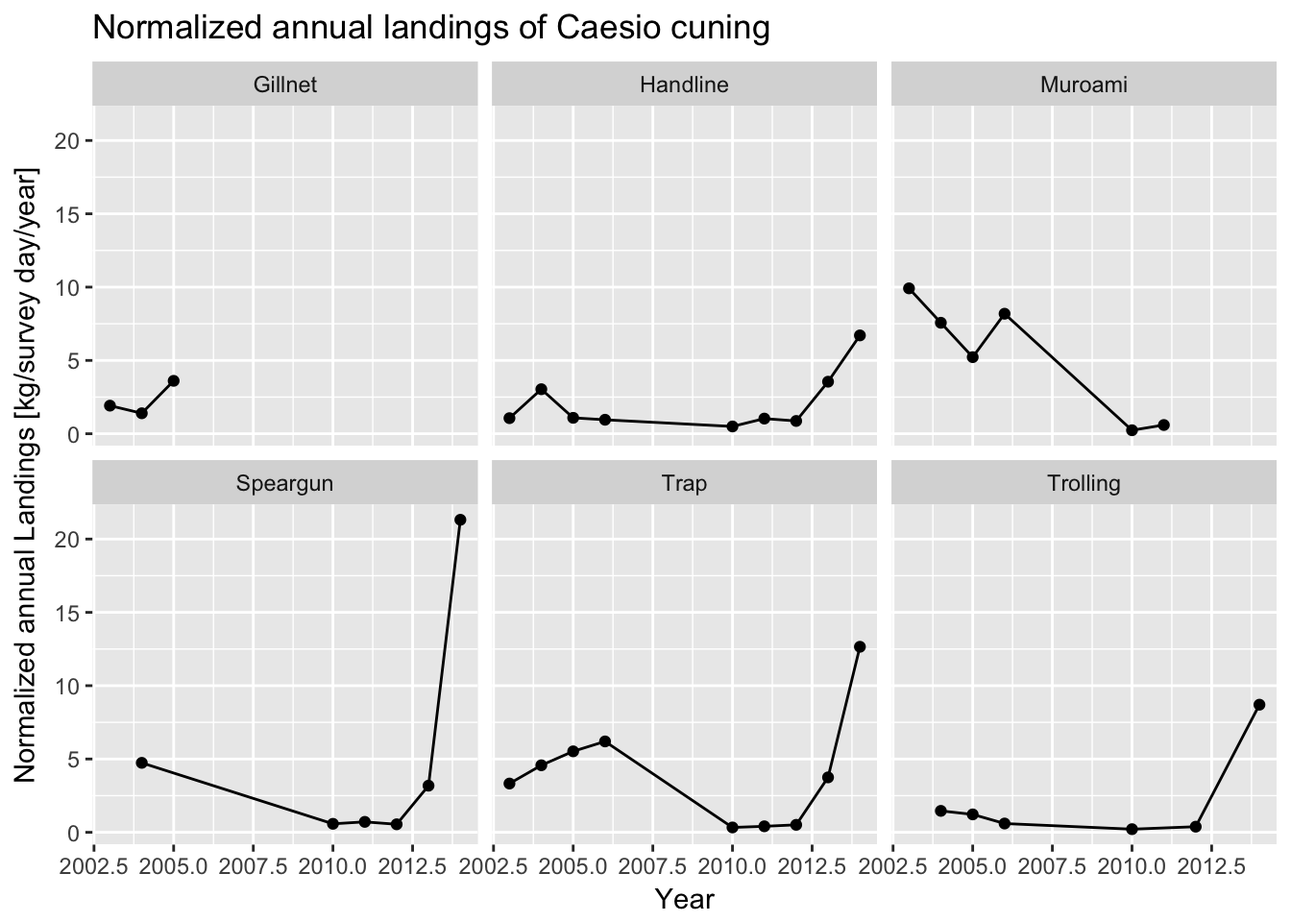
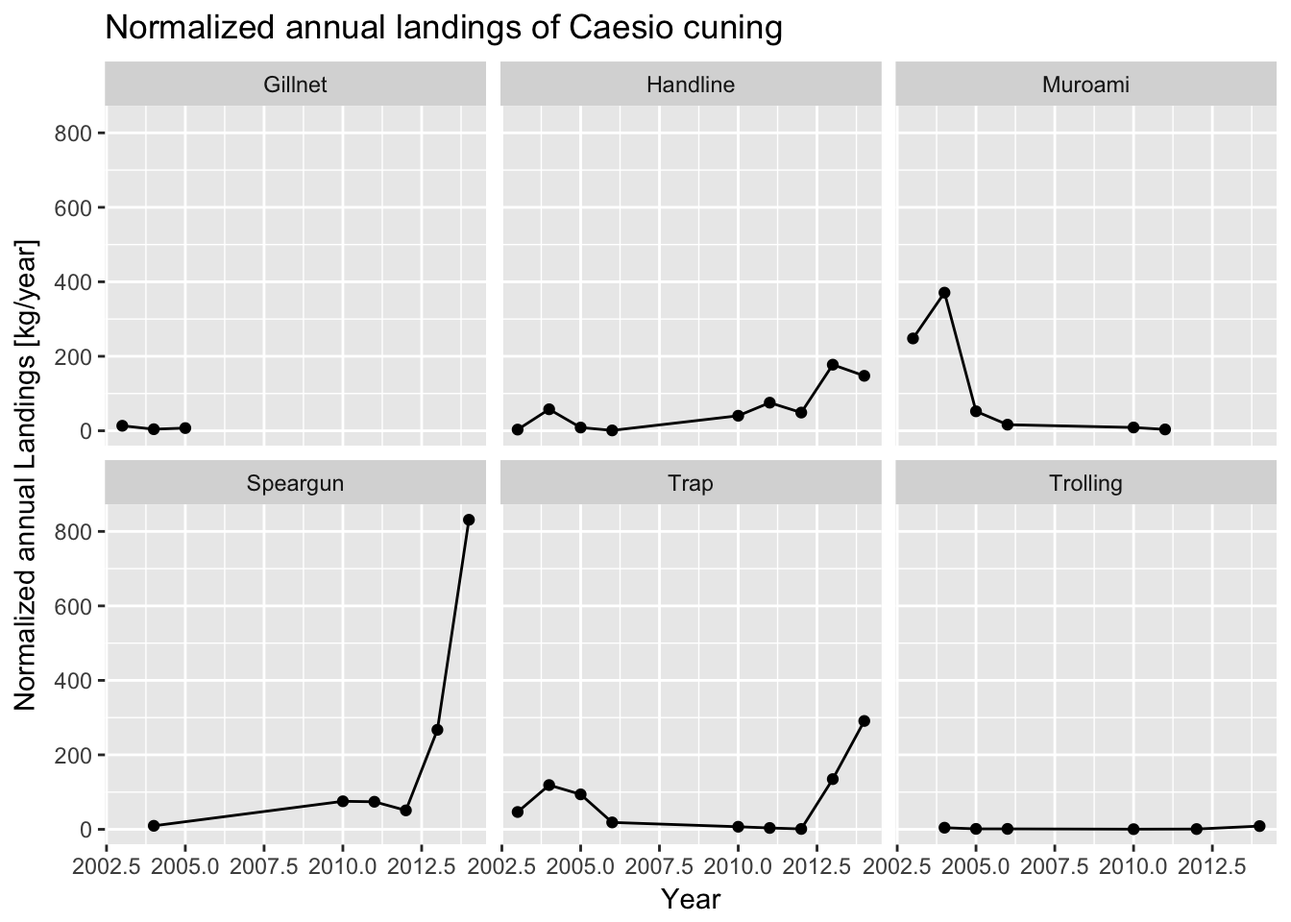
updates

diff --git a/docs/basic-fisheries-statistics.html b/docs/basic-fisheries-statistics.html
@@ -154,68 +154,73 @@ code > span.in { color: #60a0b0; font-weight: bold; font-style: italic; } /* Inf
             <section class="normal" id="section-">
 <div id="basic-fisheries-statistics" class="section level1">
 <h1><span class="header-section-number">6</span> Basic Fisheries Statistics</h1>
-<p>This short document will walk you through how to calculate some basic fisheries statistics This is a very quick introduction, but a great resource for learning more is a free book called <a href="http://r4ds.had.co.nz/">R for Data Science</a>. Additionally, you can always use R’s built in help functionality by using a question mark followed by a function name. For example, typing <code>?ggplot</code> into the console will bring up a help document on ggplot.</p>
 <div id="calculating-landings" class="section level2">
 <h2><span class="header-section-number">6.1</span> Calculating landings</h2>
-<p>One of the first analyses you may be interested in is calculating annual landings in the fishery. To do this in R, you start by taking the landings data and working through a series of “pipes”, which progressively analyze the data from one step to the next and are shown with the <code>%&gt;%</code> operation. Essentially, the output of one line is fed into the input of the next line. In all of the code below, there are also some helpful comments to tell you what each line is doing. Comments start with the <code>#</code> operation, and are not evaluated by R - they are simply there to document the code.</p>
-<p>To calcualte annual landings, take your <code>landings_data</code> data frame, group the data by year, and then summarize the data for each year by summing the total weight of all fish caught in each year. While summarizing the annual data, you can also convert from grams to kilograms to grabs. Also, because this particular survey only samples the catch on certain days, it does not represent the total volume of landed catch. Therefore, it’s important to not only sum the amount of catch each year, but also normalize the sampled catch by the number of sampling days. This will mean that trends represent actual increases or decreases in catch, not just increases or decreases in how frequently the catch is sampled.</p>
+<p>One of the first analyses you may be interested in is calculating annual landings in the fishery. To do this in R, you start by taking the landings data frame we loaded into R, and working through a series of “pipes”, which progressively analyze the data from one step to the next and are shown with the <code>%&gt;%</code> operation. Essentially, the output of one line is fed into the input of the next line. In all of the code below, there are also some helpful comments to tell you what each line is doing. Comments start with the <code>#</code> operation, and are not evaluated by R - they are simply there to document the code.</p>
+<p>To calcualte annual landings, take your <code>landings_data</code> data frame, add a column for weight of individual fish in kilograms by using the <code>mutate</code> function, group the data by year by using the <code>group_by</code> function, and then summarize the data for each year by summing the total weight of all fish caught in each year using the <code>summarize</code> and <code>sum</code> functions.</p>
 <div class="sourceCode"><pre class="sourceCode r"><code class="sourceCode r">## Start with the landings data frame
 annual_landings &lt;-<span class="st"> </span>landings_data %&gt;%<span class="st"> </span>
-<span class="st">  </span>## First, group the data by year
+<span class="st">  </span>## Add colomn for kilograms by dividing gram column by 1000
+<span class="st">  </span><span class="kw">mutate</span>(<span class="dt">Weight_kg =</span> Weight_g /<span class="st"> </span><span class="dv">1000</span>) %&gt;%
+<span class="st">  </span>## Group the data by year
 <span class="st">  </span><span class="kw">group_by</span>(Year) %&gt;%<span class="st"> </span>
-<span class="st">  </span>## Next, summarize the total annual landings per year. Also convert from grams to kilograms by dividing by 1000. Also, normalize the annual catch by the number of survey days each year.
-<span class="st">  </span><span class="kw">summarize</span>(<span class="dt">Annual_Landings_kg_sampling_day =</span> <span class="kw">sum</span>(Weight_g,<span class="dt">na.rm=</span><span class="ot">TRUE</span>)/<span class="dv">1000</span>/<span class="kw">n_distinct</span>(Date))
+<span class="st">  </span>## Next, summarize the total annual landings per year
+<span class="st">  </span><span class="kw">summarize</span>(<span class="dt">Annual_Landings_kg =</span> <span class="kw">sum</span>(Weight_kg,<span class="dt">na.rm=</span><span class="ot">TRUE</span>))
 
 ## Display a table of the annual landings data
 annual_landings</code></pre></div>
 <pre><code>## # A tibble: 9 × 2
-##    Year Annual_Landings_kg_sampling_day
-##   &lt;dbl&gt;                           &lt;dbl&gt;
-## 1  2003                       7.5863749
-## 2  2004                       8.6999112
-## 3  2005                       6.5296765
-## 4  2006                       5.3027336
-## 5  2010                       0.7894718
-## 6  2011                       1.0963514
-## 7  2012                       0.8058094
-## 8  2013                       4.1994209
-## 9  2014                      19.0824869</code></pre>
+##    Year Annual_Landings_kg
+##   &lt;dbl&gt;              &lt;dbl&gt;
+## 1  2003          311.04137
+## 2  2004          565.49423
+## 3  2005          163.24191
+## 4  2006           37.11914
+## 5  2010          131.84178
+## 6  2011          156.77825
+## 7  2012          101.53198
+## 8  2013          579.52008
+## 9  2014         1278.52662</code></pre>
 <p>You may be interested in looking at landings across different gear types. Here, we now group the data frame by both the year and the gear type in order to summarize the total landings by year and by gear.</p>
 <div class="sourceCode"><pre class="sourceCode r"><code class="sourceCode r">## Start with the landings data frame
 annual_gear_landings &lt;-<span class="st"> </span>landings_data %&gt;%<span class="st"> </span>
-<span class="st">  </span>## First, group the data by year
+<span class="st">  </span>## Add colomn for kilograms by dividing gram column by 1000
+<span class="st">  </span><span class="kw">mutate</span>(<span class="dt">Weight_kg =</span> Weight_g /<span class="st"> </span><span class="dv">1000</span>) %&gt;%
+<span class="st">  </span>## Group the data by year and gear type
 <span class="st">  </span><span class="kw">group_by</span>(Year,Gear) %&gt;%<span class="st"> </span>
-<span class="st">  </span><span class="co"># Next, summarize the total annual landings per year. Also convert from grams to kilograms by dividing by 1000. Also, normalize the annual catch by the number of survey days each year.</span>
-<span class="st">  </span><span class="kw">summarize</span>(<span class="dt">Annual_Landings_kg_sampling_day =</span> <span class="kw">sum</span>(Weight_g,<span class="dt">na.rm=</span><span class="ot">TRUE</span>)/<span class="dv">1000</span>/<span class="kw">n_distinct</span>(Date))
+<span class="st">  </span><span class="co"># Next, summarize the total annual landings per year and gear type</span>
+<span class="st">  </span><span class="kw">summarize</span>(<span class="dt">Annual_Landings_kg =</span> <span class="kw">sum</span>(Weight_kg,<span class="dt">na.rm=</span><span class="ot">TRUE</span>))
 
 ## Display a table of the annual landings data by gear type
 annual_gear_landings</code></pre></div>
 <pre><code>## Source: local data frame [39 x 3]
 ## Groups: Year [?]
 ## 
-##     Year     Gear Annual_Landings_kg_sampling_day
-##    &lt;dbl&gt;    &lt;chr&gt;                           &lt;dbl&gt;
-## 1   2003  Gillnet                        1.916200
-## 2   2003 Handline                        1.062857
-## 3   2003  Muroami                        9.915162
-## 4   2003     Trap                        3.325739
-## 5   2004  Gillnet                        1.396434
-## 6   2004 Handline                        3.037152
-## 7   2004  Muroami                        7.568703
-## 8   2004 Speargun                        4.738203
-## 9   2004     Trap                        4.571908
-## 10  2004 Trolling                        1.462182
+##     Year     Gear Annual_Landings_kg
+##    &lt;dbl&gt;    &lt;chr&gt;              &lt;dbl&gt;
+## 1   2003  Gillnet          13.413401
+## 2   2003 Handline           3.188572
+## 3   2003  Muroami         247.879049
+## 4   2003     Trap          46.560347
+## 5   2004  Gillnet           4.189301
+## 6   2004 Handline          57.705893
+## 7   2004  Muroami         370.866460
+## 8   2004 Speargun           9.476406
+## 9   2004     Trap         118.869619
+## 10  2004 Trolling           4.386547
 ## # ... with 29 more rows</code></pre>
 </div>
 <div id="calculating-catch-per-unit-effort-cpue" class="section level2">
 <h2><span class="header-section-number">6.2</span> Calculating Catch-per-Unit-Effort (CPUE)</h2>
-<p>You may also be interested in calculating catch-per-unit-effort (CPUE). CPUE is calculated by dividing the catch of each fishing trip by the number of hours fished during that trip. This gives CPUE in units of kilograms per hour. The median is taken in order to remove outliers - some fishers are much more efficient than others.</p>
+<p>You may also be interested in calculating catch-per-unit-effort (CPUE). CPUE is calculated by dividing the catch of each fishing trip by the number of hours fished during that trip. This gives CPUE in units of kilograms per hour. The median for every year is then calculated in order to remove outliers - some fishers are much more efficient than others.</p>
 <div class="sourceCode"><pre class="sourceCode r"><code class="sourceCode r">## Start with the landings data frame
 cpue_data &lt;-<span class="st"> </span>landings_data %&gt;%<span class="st"> </span>
+<span class="st">  </span>## Add colomn for kilograms by dividing gram column by 1000
+<span class="st">  </span><span class="kw">mutate</span>(<span class="dt">Weight_kg =</span> Weight_g /<span class="st"> </span><span class="dv">1000</span>) %&gt;%
 <span class="st">  </span>## Group by year and Trip ID so that you can calculate CPUE for every trip in every year
 <span class="st">  </span><span class="kw">group_by</span>(Year,Trip_ID) %&gt;%<span class="st"> </span>
 <span class="st">  </span>## For each year and trip ID, calculate the CPUE for each trip by dividing the sum of the catch, converted from grams to kilograms, by the trip by the number of fishing hours
-<span class="st">  </span><span class="kw">summarize</span>(<span class="dt">Trip_CPUE =</span> <span class="kw">sum</span>(Weight_g/<span class="dv">1000</span>) /<span class="st"> </span><span class="kw">mean</span>(Effort_Hours)) %&gt;%<span class="st"> </span>
+<span class="st">  </span><span class="kw">summarize</span>(<span class="dt">Trip_CPUE =</span> <span class="kw">sum</span>(Weight_kg) /<span class="st"> </span><span class="kw">mean</span>(Effort_Hours)) %&gt;%<span class="st"> </span>
 <span class="st">  </span>## Next, just group by year so we can calculate median CPUE for each year across all trips in the year
 <span class="st">  </span><span class="kw">group_by</span>(Year) %&gt;%<span class="st"> </span>
 <span class="st">  </span>## Calculate median CPUE for each year
@@ -237,8 +242,8 @@ cpue_data</code></pre></div>
 </div>
 <div id="calculating-percent-mature" class="section level2">
 <h2><span class="header-section-number">6.3</span> Calculating percent mature</h2>
-<p>You may also wish to analyze your lengt data. An interesting analysis is to determine the percentage of mature fish in the catch in every year of the data frame. To do this, we add a column to the data frame that represents whether each fish is mature or not (represented by a 1 or 0), group the data frame by year, and then summarize for each year the percentage of mature fish out of the total number of sampled fish. To determine if a fish is mature or not, it is compared against <em>m95</em>, the length at which 95% of fish are mature.</p>
-<p>Over 90% of the fish are mature throughout the time series, which is a great sign! This matches up with what we see in the histogram.</p>
+<p>You may also wish to analyze your length data. One analysis would be to determine the percentage of mature fish in the catch in every year of the data frame. To do this, we add a column to the data frame using the <code>mutate</code> function that represents whether each fish is mature or not (represented by a 1 or 0), group the data frame by year, and then summarize for each year the percentage of mature fish out of the total number of sampled fish. To determine if a fish is mature or not, it is compared against <em>m95</em>, the length at which 95% of fish are mature. The value for <code>m95</code> can be taken from the <code>life_history_parameters</code> data frame and is referenced using a <code>$</code> and the code <code>life_history_parameters$m95</code>.</p>
+<p>Over 90% of the fish are mature throughout the time series, which is a great sign!</p>
 <div class="sourceCode"><pre class="sourceCode r"><code class="sourceCode r">## Start with the landings data frame
 landings_data %&gt;%<span class="st"> </span>
 <span class="st">  </span>## Add a column to the data that indicates whether each length measurement is from a mature or immature fish. If it&#39;s mature, this value should be 1; if immature, 0.

diff --git a/docs/plotting-fisheries-data.html b/docs/plotting-fisheries-data.html
@@ -154,36 +154,36 @@ code > span.in { color: #60a0b0; font-weight: bold; font-style: italic; } /* Inf
             <section class="normal" id="section-">
 <div id="plotting-fisheries-data" class="section level1">
 <h1><span class="header-section-number">7</span> Plotting Fisheries Data</h1>
-<p>This short document will walk you through how to make make some basic fisheries plots. Once you’ve analyzed the data as in the previous step to create summary statistics, you can take these data frames and feed them into ggplot. When using ggplot, start with your data frame, initialize the ggplot, and then use the <code>+</code> operation to add additional features to the plot.</p>
+<p>This document will now walk you through how to make make some basic fisheries plots using the data frames you created in the previous analysis section and the <code>ggplot</code> plotting function. When using <code>ggplot</code>, start with your data frame, initialize the ggplot, and then use the <code>+</code> operation to add additional features to the plot.</p>
 <div id="plot-landings-data" class="section level2">
 <h2><span class="header-section-number">7.1</span> Plot landings data</h2>
-<p>Let’s plot a time series of annual landings data. We start with the annual landings data we made in the previous step, and then feed this into a ggplot. It appears landings were going down between 2004 and 2011, but have been increasing significantly since then.</p>
+<p>Let’s plot a time series of annual landings data. We start with the annual landings data we made in the previous step, and then feed this into a ggplot. It appears landings were going down between 2004 and 2011, but have been increasing since then.</p>
 <div class="sourceCode"><pre class="sourceCode r"><code class="sourceCode r">## Start with the annual_landings data frame you created in the last step
 annual_landings %&gt;%
 <span class="st">  </span>## Initialize a ggplot of annual landings versus year
-<span class="st">  </span><span class="kw">ggplot</span>(<span class="kw">aes</span>(<span class="dt">x=</span>Year,<span class="dt">y=</span>Annual_Landings_kg_sampling_day)) +
+<span class="st">  </span><span class="kw">ggplot</span>(<span class="kw">aes</span>(<span class="dt">x=</span>Year,<span class="dt">y=</span>Annual_Landings_kg)) +
 <span class="st">  </span>## Tell ggplot that the plot type should be a scatter plot
 <span class="st">  </span><span class="kw">geom_point</span>() +
 <span class="st">  </span>## Also add a line connecting the points
 <span class="st">  </span><span class="kw">geom_line</span>() +<span class="st"> </span>
 <span class="st">  </span>## Change the y-axis title
-<span class="st">  </span><span class="kw">ylab</span>(<span class="st">&quot;Normalized annual Landings [kg/survey day/year]&quot;</span>) +<span class="st"> </span>
+<span class="st">  </span><span class="kw">ylab</span>(<span class="st">&quot;Annual Landings [kg/year]&quot;</span>) +<span class="st"> </span>
 <span class="st">  </span>## Add figure title
-<span class="st">  </span><span class="kw">ggtitle</span>(<span class="st">&quot;Normalized annual landings of Caesio cuning&quot;</span>) </code></pre></div>
+<span class="st">  </span><span class="kw">ggtitle</span>(<span class="st">&quot;Annual landings of Caesio cuning&quot;</span>) </code></pre></div>
 <p><img src="bookdown-demo_files/figure-html/unnamed-chunk-24-1.png" width="672" /></p>
-<p>Again, you may be interested in looking across different gear types. To plot, we use ggplot’s faceting functionality. Doing so, it now becomes clear that the recent increase in catch seems to be concentrated in speargun and trap fishing. Meanwhile, catch from muroami, a very destructive type of gear where nets are driven into the reef, has dropped to 0 since a ban of that gear in 2012 - a good sign that mangement regulation is working.</p>
+<p>Again, you may be interested in looking across different gear types. To plot, we use ggplot’s faceting functionality. You can use the <code>facet_wrap</code> function and facet by gear type. Doing so, it now becomes clear that the recent increase in catch seems to be concentrated in speargun and trap fishing. Meanwhile, catch from muroami, a very destructive type of gear where nets are driven into the reef, has dropped to 0 since a ban of that gear in 2012 - a good sign that mangement regulation is working.</p>
 <div class="sourceCode"><pre class="sourceCode r"><code class="sourceCode r">## Start with the landings data frame
 annual_gear_landings %&gt;%<span class="st"> </span>
 <span class="st">  </span>## First, group the data by year
 <span class="st">  </span><span class="kw">group_by</span>(Year,Gear) %&gt;%<span class="st"> </span>
 <span class="st">  </span>## Initialize a ggplot of annual landings versus year
-<span class="st">  </span><span class="kw">ggplot</span>(<span class="kw">aes</span>(<span class="dt">x=</span>Year,<span class="dt">y=</span>Annual_Landings_kg_sampling_day)) +
+<span class="st">  </span><span class="kw">ggplot</span>(<span class="kw">aes</span>(<span class="dt">x=</span>Year,<span class="dt">y=</span>Annual_Landings_kg)) +
 <span class="st">  </span>## Tell ggplot that the plot type should be a scatter plot
 <span class="st">  </span><span class="kw">geom_point</span>() +
 <span class="st">  </span>## Also add a line connecting the points
 <span class="st">  </span><span class="kw">geom_line</span>() +<span class="st"> </span>
 <span class="st">  </span>## Change the y-axis title
-<span class="st">  </span><span class="kw">ylab</span>(<span class="st">&quot;Normalized annual Landings [kg/survey day/year]&quot;</span>) +<span class="st"> </span>
+<span class="st">  </span><span class="kw">ylab</span>(<span class="st">&quot;Normalized annual Landings [kg/year]&quot;</span>) +<span class="st"> </span>
 <span class="st">  </span>## Add figure title
 <span class="st">  </span><span class="kw">ggtitle</span>(<span class="st">&quot;Normalized annual landings of Caesio cuning&quot;</span>) +
 <span class="st">  </span>## This tells the figure to plot by all different gear types
@@ -210,7 +210,7 @@ cpue_data %&gt;%<span class="st"> </span>
 </div>
 <div id="plot-length-data" class="section level2">
 <h2><span class="header-section-number">7.3</span> Plot length data</h2>
-<p>Finally, let’s first look at the length data from the catch, which gives an indication of the size structure and health of the population. Let’s look at the length data for 2014, which is the most recent year of data available. We first filter the data to be only from 2014. We then create a histogram of the length data, which shows how many individuals of each size class were measured in the catch. On the histogram, we’ll also a vertical line to show the length at which fish mature to get a sense of how sustainable the catch is - the catch should be composed mostly of mature fish. This information comes from the life history parameter data input file.</p>
+<p>Finally, let’s first look at the length data from the catch, which gives an indication of the size structure and health of the population. Let’s look at the length data for 2014, which is the most recent year of data available. We first filter the data to be only from 2014 using the <code>filter</code> function. We then create a histogram of the length data, which shows how many individuals of each size class were measured in the catch. On the histogram, we’ll also a vertical line to show the length at which fish mature to get a sense of how sustainable the catch is - the catch should be composed mostly of mature fish. This information comes from the life history parameter data input file.</p>
 <div class="sourceCode"><pre class="sourceCode r"><code class="sourceCode r">## Start with the landings data frame
 landings_data %&gt;%<span class="st"> </span>
 <span class="st">  </span>## Filter data to only look at length measurements from 2014

diff --git a/docs/loading-fisheries-data.html b/docs/loading-fisheries-data.html
@@ -154,8 +154,10 @@ code > span.in { color: #60a0b0; font-weight: bold; font-style: italic; } /* Inf
             <section class="normal" id="section-">
 <div id="loading-fisheries-data" class="section level1">
 <h1><span class="header-section-number">5</span> Loading Fisheries Data</h1>
-<p>Next, you’ll load the data you’ll be using for the analysis using the <code>read_csv</code> function. First load the landings data which includes catch, effort, and length measurements. The data are stored as a csv under a “data” folder. Store these data to a data frame called <code>landings_data</code>. Next, load the life history parameter data file. These data are also stored as a csv under a “data” folder. Store these data to a data frame called <code>life_history_parameters</code>.</p>
-<p>As data are loaded in, you’ll see that R automatically determines what type of variable each column represents - integers (for numbers), characters (for words), etc.</p>
+<p>Next, you’ll load the data you’ll be using for the analysis using the <code>read_csv</code> function. First, create a new folder in your working directory called “_data“. Next, download the following two files onto your computer. Right click on each link, and save it into your”_data&quot; folder.</p>
+<p><a href="https://raw.githubusercontent.com/SFG-UCSB/fishery-manageR/master/_data/sample_landings_data.csv">Right click and save-link-as to download landings data</a></p>
+<p><a href="https://raw.githubusercontent.com/SFG-UCSB/fishery-manageR/master/_data/life_history_parameters.csv">Right click and save-link-as to download life history data</a></p>
+<p>Next, you’ll load these two csv files into R. First load the landings data which includes catch, effort, and length measurements and store these data to a data frame called <code>landings_data</code>. Next, load the life history parameter data file and store these data to a data frame called <code>life_history_parameters</code>.</p>
 <div class="sourceCode"><pre class="sourceCode r"><code class="sourceCode r">landings_data &lt;-<span class="st"> </span><span class="kw">read_csv</span>(<span class="st">&quot;_data/sample_landings_data.csv&quot;</span>)
 
 life_history_parameters &lt;-<span class="st"> </span><span class="kw">read_csv</span>(<span class="st">&quot;_data/life_history_parameters.csv&quot;</span>)</code></pre></div>
@@ -171,7 +173,7 @@ life_history_parameters &lt;-<span class="st"> </span><span class="kw">read_csv<
 ## 5  2003 4/30/03       1           10  Trap Caesio cuning        34
 ## 6  2003 4/30/03       1           10  Trap Caesio cuning        28
 ## # ... with 1 more variables: Weight_g &lt;dbl&gt;</code></pre>
-<p>The <code>landings_data</code> data frame is from a fishery-dependent landing site survey. The species included in this data set is <em>Caesio cuning</em>, a yellowtail fusilier. The survey is conducted every few days at a major landing site, and thus is just a sub-sample of the total catch. However, it is conducted throughout the year and during each season, and at the largest landings site with fishers using several different gear types and fishing throughout the entire species range, so it is fairly representative of the total catch. You can see the data frame has eight columns, with each row being an individual fish catch measurement. The columns include the year and date when the measurement was collected, the fishing trip ID, how many hours were fished for each trip, what gear was used, the species, the length of the fish, and the weight of the fish. We’ll be able to use these data to create length-frequency histograms that describe the size structure of the population, as well as trends in catch and CPUE.</p>
+<p>The <code>landings_data</code> data frame is from a fishery-dependent landing site survey. The species included in this data set is <em>Caesio cuning</em>, a yellowtail fusilier. You can see the data frame has eight columns, with each row being an individual fish catch measurement. The columns include the year and date when the measurement was collected, the fishing trip ID, how many hours were fished for each trip, what gear was used, the species, the length of the fish, and the weight of the fish. We’ll be able to use these data to create length-frequency histograms that describe the size structure of the population, as well as trends in catch and CPUE.</p>
 <p>One thing we should do is format the year and date columns to ensure that R knows these represent years and dates as we humans think of them. We can use the <code>mdy</code> and <code>year</code> functions from the lubridate package to do this.</p>
 <div class="sourceCode"><pre class="sourceCode r"><code class="sourceCode r">## Start with the landings data frame
 landings_data &lt;-<span class="st"> </span>landings_data %&gt;%<span class="st"> </span>

diff --git a/docs/loading-packages.html b/docs/loading-packages.html
@@ -154,8 +154,10 @@ code > span.in { color: #60a0b0; font-weight: bold; font-style: italic; } /* Inf
             <section class="normal" id="section-">
 <div id="loading-packages" class="section level1">
 <h1><span class="header-section-number">4</span> Loading packages</h1>
+<p>The next few sections will walk you through how to calculate some basic fisheries statistics and plot the results. This is a very quick introduction, but a great resource for learning more is a free book called <a href="http://r4ds.had.co.nz/">R for Data Science</a>. Additionally, you can always use R’s built in help functionality by using a question mark followed by a function name. For example, typing <code>?ggplot</code> into the console will bring up a help document on ggplot.</p>
 <p>The first step in any analysis is the load the packages you will need for your analysis. Loading packages allows you to use powerful functions not included in “base” R.</p>
 <p>For this analysis, you will use the tidyverse package, which actually loads a group of useful packages including <code>tidyr</code>, <code>dplyr</code>, <code>readr</code>, and <code>ggplot2</code>. <code>tidyr</code> and <code>dplyr</code> are very handy packages for manipulating data, <code>readr</code> is great for loading in data such as csv files, while <code>ggplot2</code> is one of the best packages from plotting data. <code>lubridate</code> is another very handy package for dealing with dates and times.</p>
+<p>If you haven’t done so yet, follow the instructions in the Installation section to load the <code>tidyverse</code> and <code>lubridate</code> packages which will be used in the example. You can then type the following lines into the console to load them into your current R session.</p>
 <div class="sourceCode"><pre class="sourceCode r"><code class="sourceCode r"><span class="kw">library</span>(tidyverse) 
 <span class="kw">library</span>(lubridate) </code></pre></div>
 
